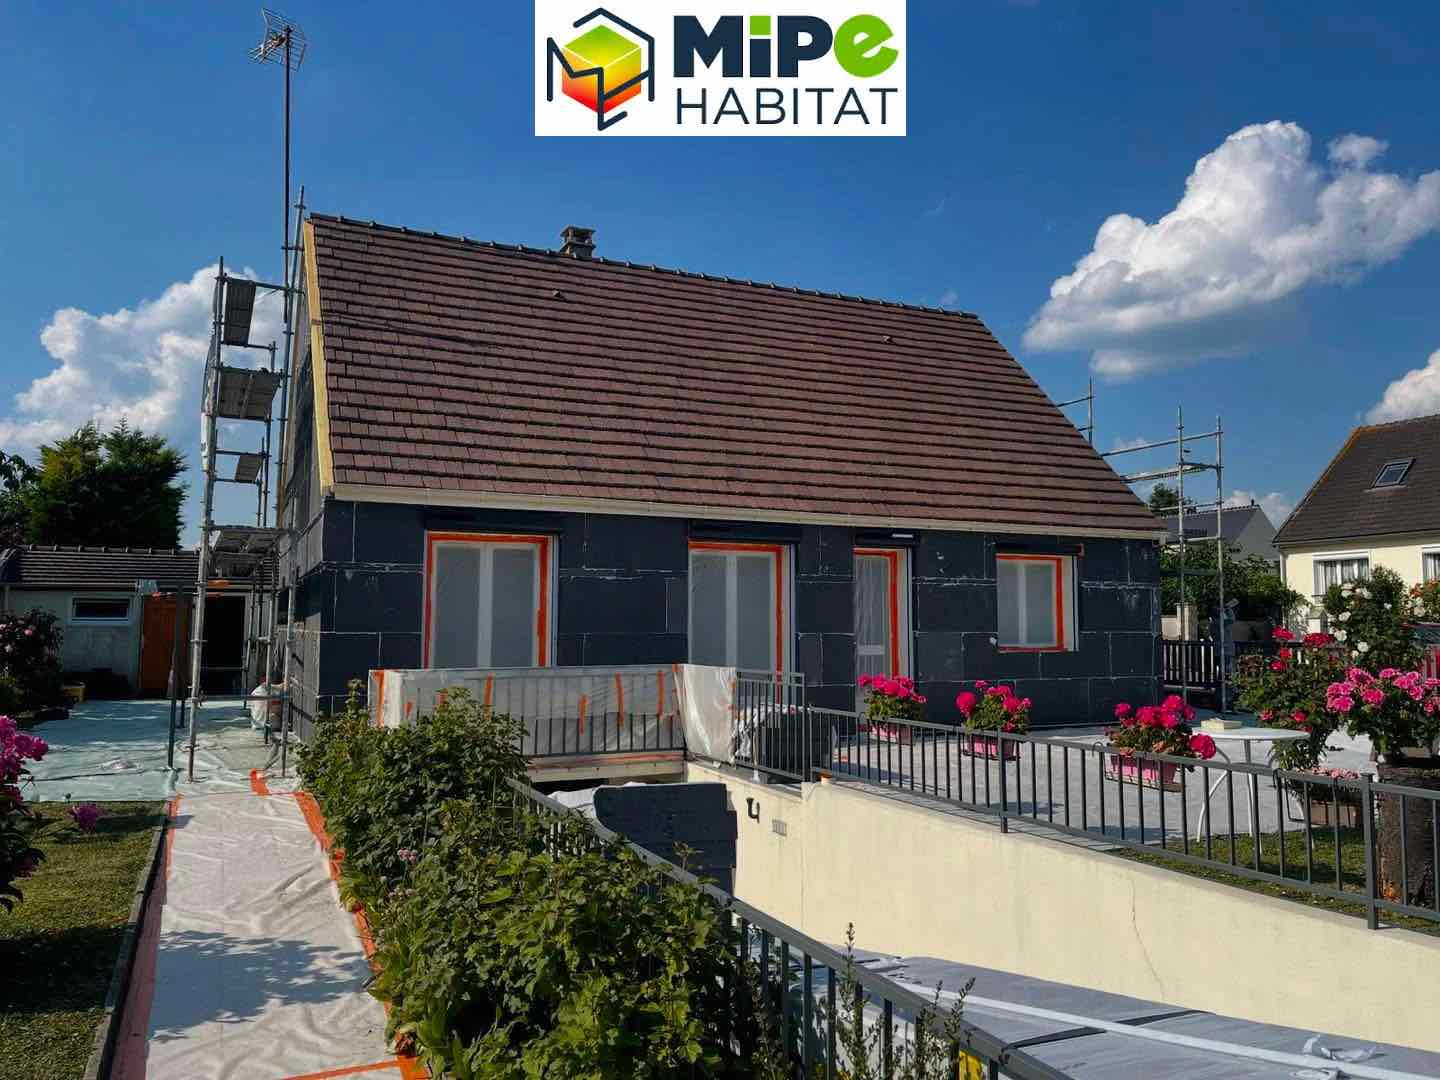
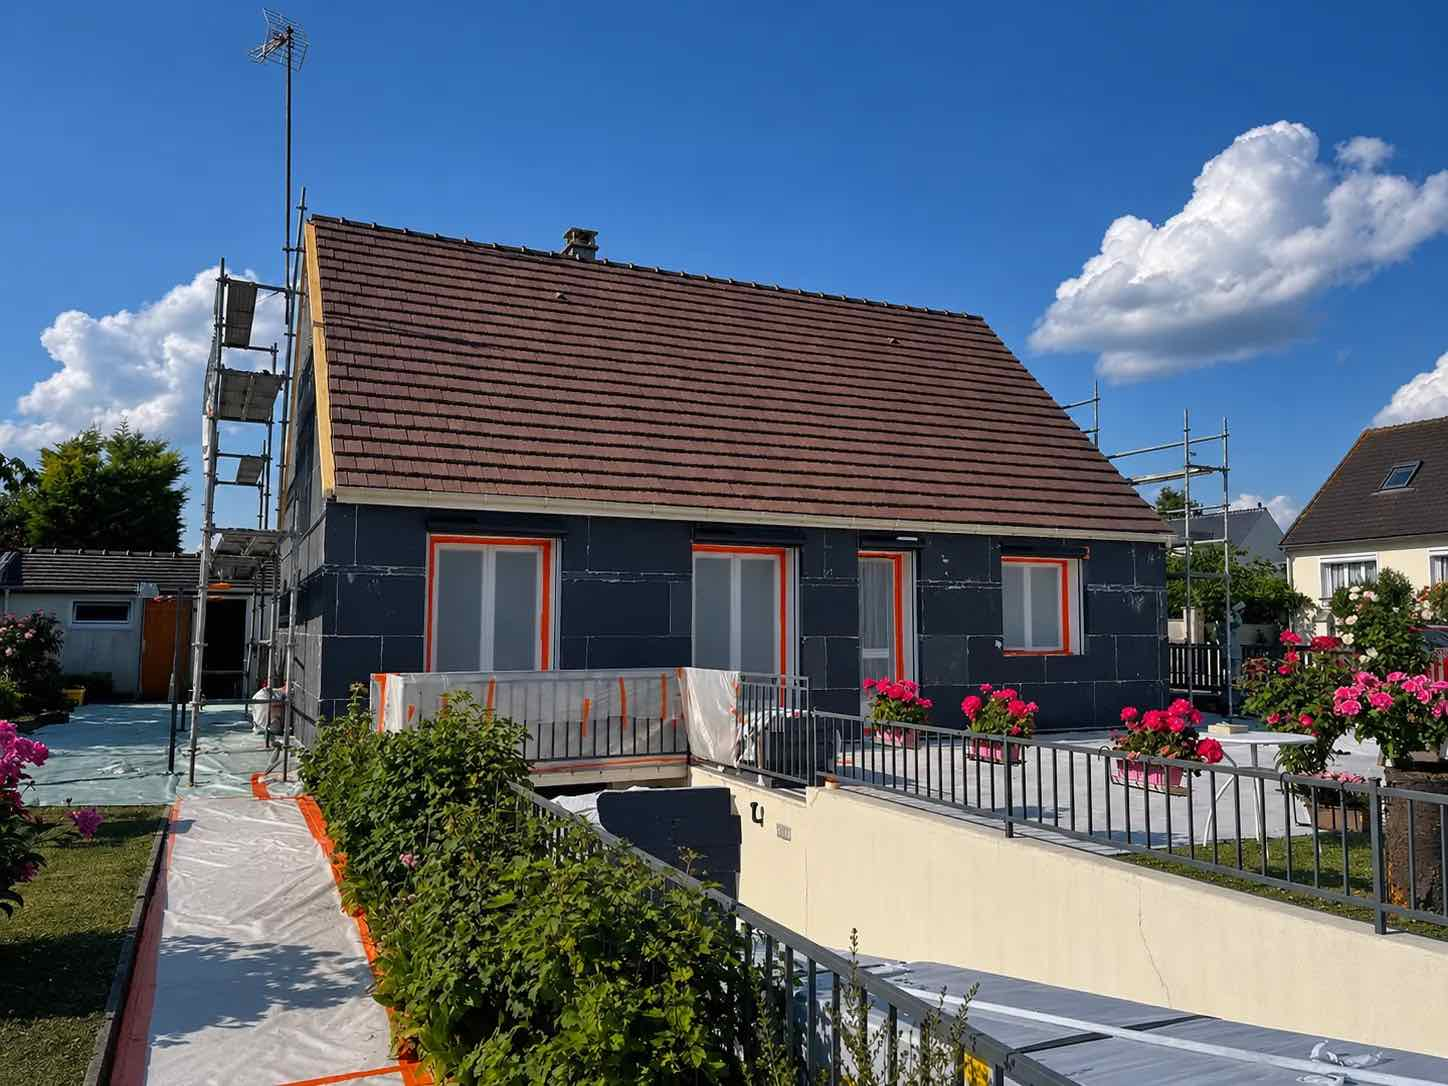
verif

diff --git a/README.md b/README.md
@@ -13,7 +13,7 @@ Inside of your Astro project, you'll see the following folders and files:
 ```text
 /
 ├── public/
-│   └── favicon.svg
+│   └── favicon.ico
 ├── src
 │   ├── assets
 │   │   └── astro.svg
